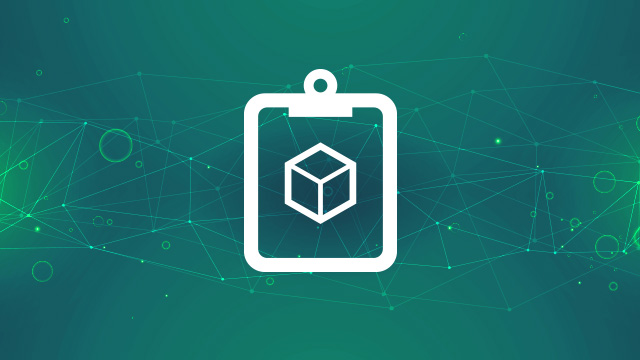
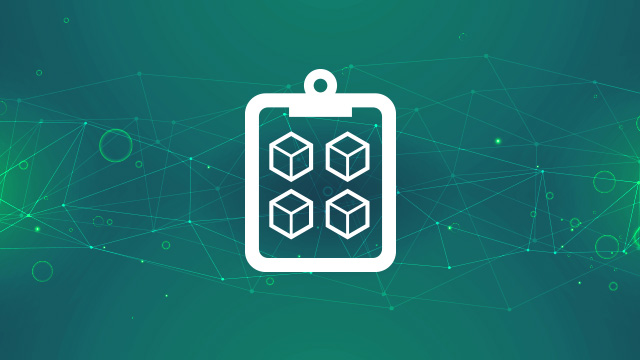
Update How to Contribute page and Concept image

diff --git a/contents/general/content-how-to-contribute.html b/contents/general/content-how-to-contribute.html
@@ -7,17 +7,16 @@ breadcrumb: How to Contribute
 
 <div class="row">
     <div class="col">
-        <h5 class="margin--bottom">Get Started</h5>
+        <h5 class="has-text-weight-bold margin--bottom">Get Started</h5>
         <p>Before you move on, here are items that you need in order to contribute to Developer Portal:</p>
         <ul>
             <li>You must be working in the Singapore Government</li>
-            <li>You will need to access your Government Email for verification code</li>
-            <li>You will need to have a GitHub account (<a href="https://github.com/join" target="_blank">sign up here</a>)</li>
+            <li>You need to have instant access your Government Email for verification code</li>
         </ul>
 
         <hr class="margin--bottom--lg margin--top--lg">
 
-        <h5 class="margin--bottom">Tutorials</h5>
+        <h5 class="has-text-weight-bold margin--bottom">Tutorials</h5>
         <div class="sgds-tabs is-boxed" data-sgds="tabs">
             <ul class="is-marginless">
                 <li class="is-active"><a data-tab="#tab1">As a Contributor</a></li>
@@ -26,12 +25,24 @@ breadcrumb: How to Contribute
         </div>
         <div class="row" id="tab1">
             <div class="col">
-                <p>To be filled</p>
+                <h6 class="has-text-weight-semibold margin--bottom">Step 1 - Go to Page</h6>
+                <p>Go to the page where you like to edit the content and click on the "Edit" button at the bottom-left of the page.</p>
+                <h6 class="has-text-weight-semibold margin--bottom">Step 2 - Edit the Content</h6>
+                <p>A WYSIWYG editor will pop up where you can edit your content within it. Click on the "Send for Review" button when you are done.</p>
+                <h6 class="has-text-weight-semibold margin--bottom">Step 3 - Verify your Email</h6>
+                <p>A verification code will be sent to your Government Email. Enter the code on the page and click "Submit".</p>
+                <p>Reviewer will be notified and update the page within the next 7 working days.</p>
             </div>
         </div>
         <div class="row" id="tab2">
             <div class="col">
-                <p>To be filled</p>
+                <h6 class="has-text-weight-semibold margin--bottom">Step 1 - Go to Page</h6>
+                <p>You will be notified for changes made to your page via your Government Email. Click on the link provided.</p>
+                <h6 class="has-text-weight-semibold margin--bottom">Step 2 - Review the Content</h6>
+                <p>Click on the "Review" button and go through the differences between the new and current content.</p>
+                <h6 class="has-text-weight-semibold margin--bottom">Step 3 - Approve the Content</h6>
+                <p>If everything looks fine, click on the "Approve" button.</p>
+                <p>Contributor of the page will be notified and page will be updated.</p>
             </div>
         </div>
     </div>
